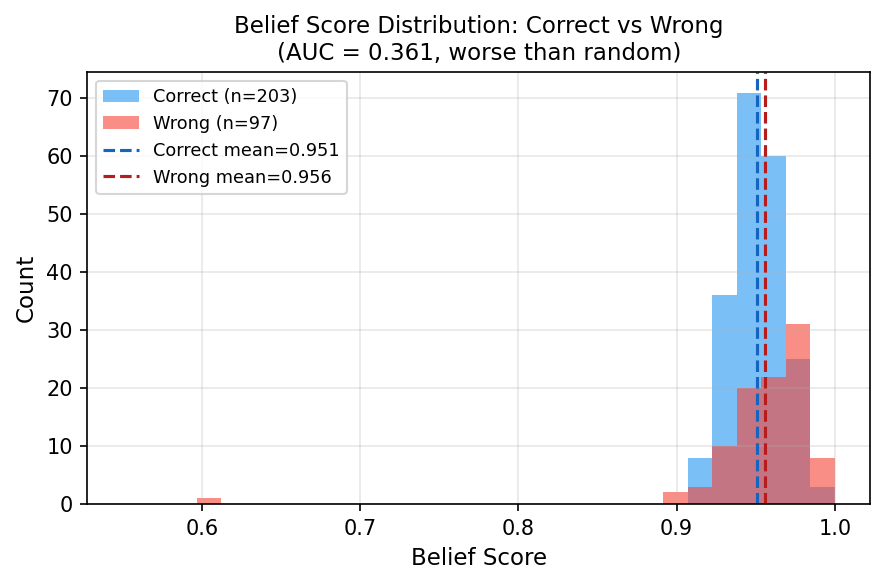
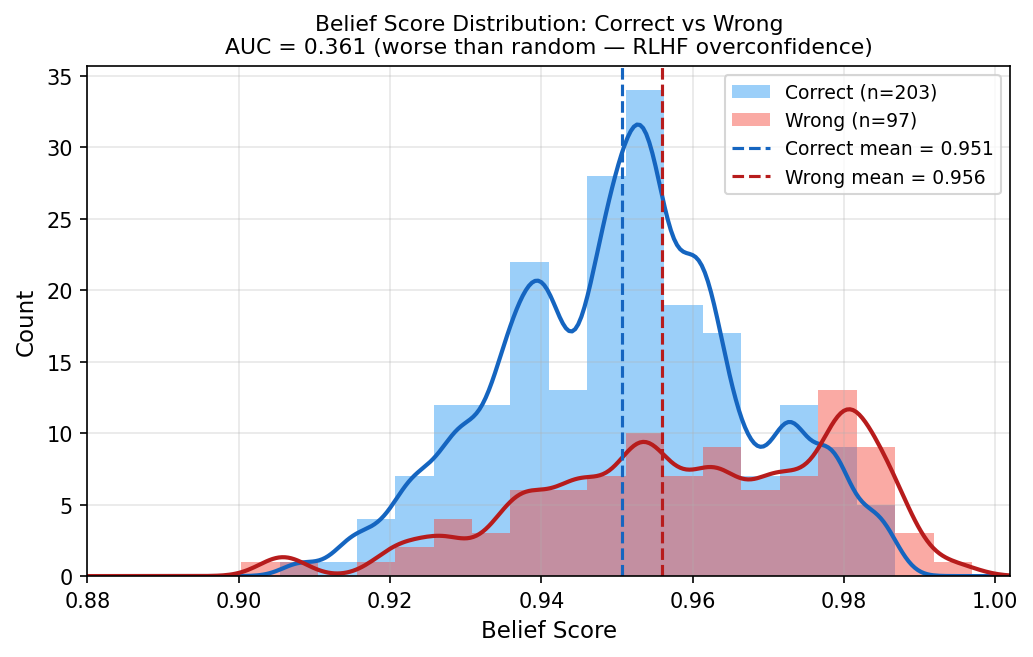
Fix fig4: zoom to [0.88,1.0], add KDE overlay, remove empty whitespace

Changed region(s): [[0.0, 0.0, 1.0, 0.9846]]

diff --git a/scripts/generate_figures.py b/scripts/generate_figures.py
@@ -254,24 +254,50 @@ def fig_lambda_sweep(all_records: dict, fig_dir: Path) -> None:
 # ---------------------------------------------------------------------------
 
 def fig_belief_histogram(all_records: dict, fig_dir: Path) -> None:
+    from scipy.stats import gaussian_kde
+
     if "adaptive" not in all_records:
         return
     records = all_records["adaptive"]
-    correct_scores = [r["score"] for r in records if r["is_correct"] and r.get("score") is not None]
-    wrong_scores   = [r["score"] for r in records if not r["is_correct"] and r.get("score") is not None]
+    correct_scores = np.array([r["score"] for r in records if r["is_correct"] and r.get("score") is not None])
+    wrong_scores   = np.array([r["score"] for r in records if not r["is_correct"] and r.get("score") is not None])
 
-    fig, ax = plt.subplots(figsize=(6, 4))
-    bins = np.linspace(0.55, 1.0, 30)
-    ax.hist(correct_scores, bins=bins, alpha=0.6, color="#2196F3", label=f"Correct (n={len(correct_scores)})")
-    ax.hist(wrong_scores,   bins=bins, alpha=0.6, color="#F44336", label=f"Wrong (n={len(wrong_scores)})")
-    ax.axvline(np.mean(correct_scores), color="#1565C0", linestyle="--", linewidth=1.5,
-               label=f"Correct mean={np.mean(correct_scores):.3f}")
-    ax.axvline(np.mean(wrong_scores),   color="#B71C1C", linestyle="--", linewidth=1.5,
-               label=f"Wrong mean={np.mean(wrong_scores):.3f}")
+    # Focus on [0.88, 1.0] where 299/300 samples live
+    lo, hi = 0.88, 1.002
+    bins = np.linspace(lo, hi, 25)
+
+    fig, ax = plt.subplots(figsize=(7, 4.5))
+
+    ax.hist(correct_scores, bins=bins, alpha=0.45, color="#2196F3",
+            label=f"Correct (n={len(correct_scores)})", density=False)
+    ax.hist(wrong_scores,   bins=bins, alpha=0.45, color="#F44336",
+            label=f"Wrong (n={len(wrong_scores)})", density=False)
+
+    # KDE overlay (scaled to count)
+    bin_width = bins[1] - bins[0]
+    xs = np.linspace(lo, hi, 300)
+    for scores, color, ls in [
+        (correct_scores, "#1565C0", "-"),
+        (wrong_scores,   "#B71C1C", "-"),
+    ]:
+        clipped = scores[(scores >= lo) & (scores <= hi)]
+        if len(clipped) > 2:
+            kde = gaussian_kde(clipped, bw_method=0.15)
+            ax.plot(xs, kde(xs) * len(scores) * bin_width,
+                    color=color, linewidth=2, linestyle=ls)
+
+    # Mean lines
+    ax.axvline(correct_scores.mean(), color="#1565C0", linestyle="--",
+               linewidth=1.5, label=f"Correct mean = {correct_scores.mean():.3f}")
+    ax.axvline(wrong_scores.mean(),   color="#B71C1C", linestyle="--",
+               linewidth=1.5, label=f"Wrong mean = {wrong_scores.mean():.3f}")
+
     ax.set_xlabel("Belief Score", fontsize=11)
     ax.set_ylabel("Count", fontsize=11)
-    ax.set_title("Belief Score Distribution: Correct vs Wrong\n(AUC = 0.361, worse than random)", fontsize=11)
-    ax.legend(fontsize=8.5)
+    ax.set_title("Belief Score Distribution: Correct vs Wrong\n"
+                 "AUC = 0.361 (worse than random — RLHF overconfidence)", fontsize=10.5)
+    ax.set_xlim(lo, hi)
+    ax.legend(fontsize=9)
     ax.grid(True, alpha=0.3)
     fig.tight_layout()
     _save(fig, fig_dir / "fig4_belief_histogram")
